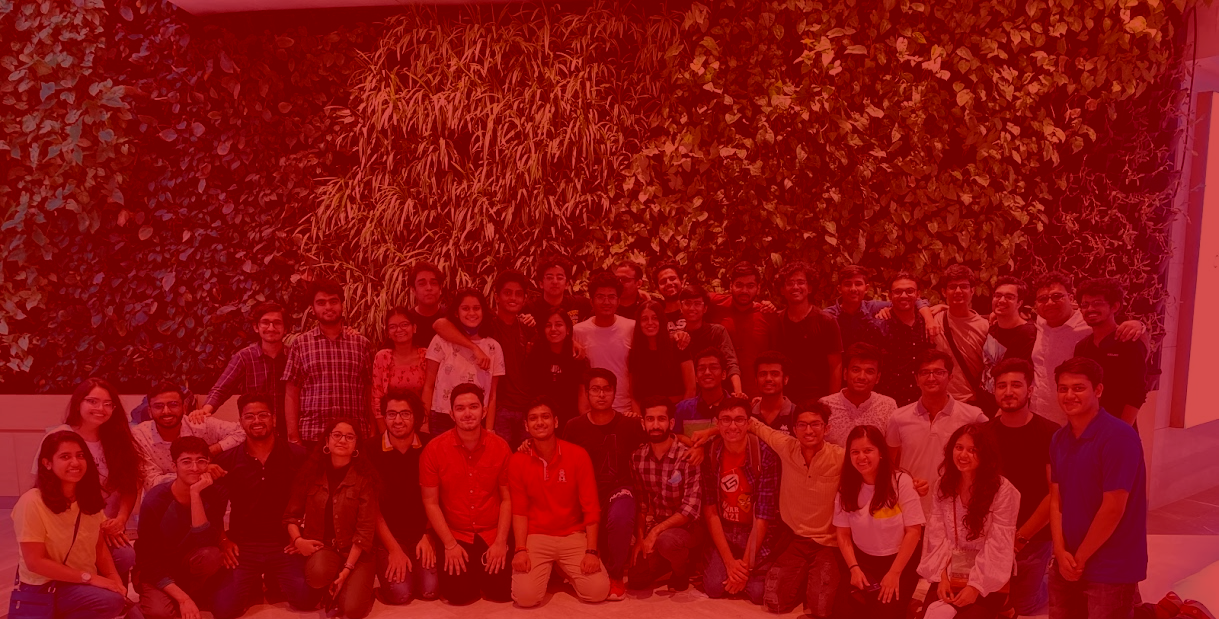
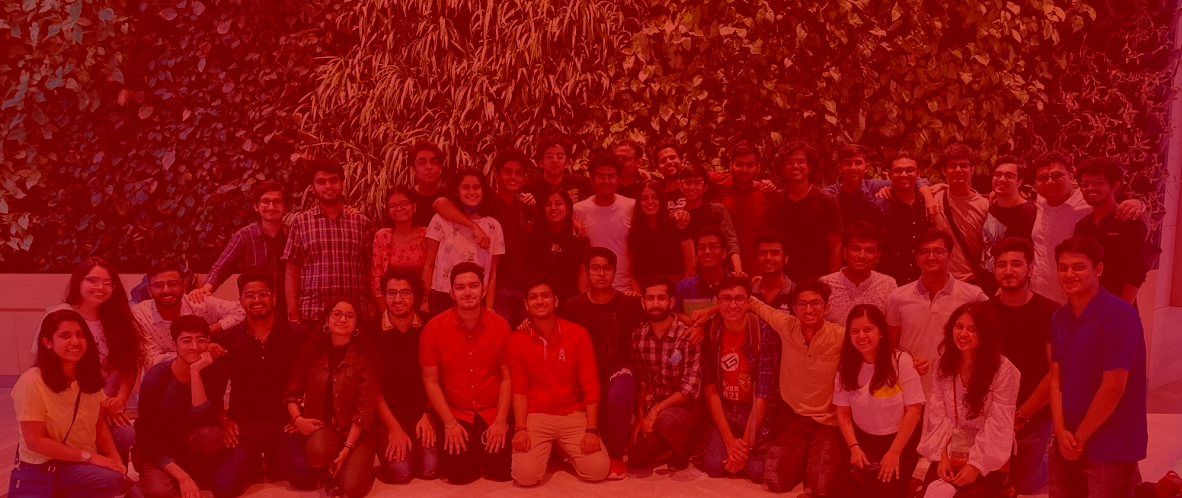
final about us

diff --git a/src/Components/AboutUs/AboutUsPage.jsx b/src/Components/AboutUs/AboutUsPage.jsx
@@ -18,9 +18,23 @@ function AboutUs() {
 	return (
 		<div className="bg">
 			<NavBar />
-			<Fade>
-				<img alt="hi" src={cover} className="cover" />
-			</Fade>
+			<div id="main-slide">
+                       <div className="carousel-inner">
+                <div className="item active" style={{backgroundImage: 'url(images/hero-area/dep.png)', zIndex: 1}} id="wb1">
+                <div className="row banner">
+          <div className="banner">
+            <Fade bottom>
+              <h1 >About Us</h1>
+            </Fade>
+            <Fade bottom duration={1200}>
+              <h3 className="dep-byline">Meet our Team </h3>
+            </Fade>
+            <hr />
+          </div>
+        </div>
+        </div>
+        </div>
+        </div>
 			<div className="content">
 				<Fade bottom>
 					<img alt="hi" src={logo} className="sign" />

diff --git a/src/Components/AboutUs/AboutUsPage.css b/src/Components/AboutUs/AboutUsPage.css
@@ -1,11 +1,8 @@
 .bg{
     background-color: black;
 }
-.cover{
-    height: 90vh;
-    background-repeat:no-repeat;
-    background-size: cover;
-    width: 100%;
+#wb1{
+    height:90vh;
 }
 .content{
     margin: 5%;
@@ -43,8 +40,11 @@
 }
 @media only screen and (max-width:767px)
 {
+    #wb1{
+        height:30vh;
+    }
     .cover{
-        height: 50vh;
+        height: 30vh;
     }
     .who{
         width:100%;

diff --git a/public/css/responsive.css b/public/css/responsive.css
@@ -537,7 +537,7 @@
 
 	#main-slide .item,
 	.page-slider .item{
-		min-height: 550px;
+		min-height: 40vh;
 		background-position: 70% 50%;
 	}
 
